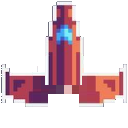
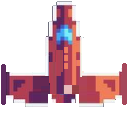
Adicionando animação e invasor

diff --git a/src/classes/Player.js b/src/classes/Player.js
@@ -1,12 +1,12 @@
-import { PATH_COMB_IMAGE, PATH_MOTOR_IMAGE, PATH_SPACESHIP_IMAGE } from "../utils/constants.js";
+import { INITIAL_FRAMES, PATH_COMB_IMAGE, PATH_MOTOR_IMAGE, PATH_SPACESHIP_IMAGE } from "../utils/constants.js";
 import ProjectTiles from "./ProjectTiles.js";
 
 class Player {
 
     constructor(canvasWidth, canvasHeight)
     {    
-        this.width = 128;
-        this.height = 128;
+        this.width = 69;
+        this.height = 69;
         this.velocity = 10;
         this.position = {
             x: (canvasWidth / 2) - (this.width / 2), 
@@ -16,6 +16,9 @@ class Player {
         this.image = this.getImage(PATH_SPACESHIP_IMAGE);
         this.motor = this.getImage(PATH_MOTOR_IMAGE);
         this.comb = this.getImage(PATH_COMB_IMAGE);
+
+        this.sx = 0;
+        this.framescount = INITIAL_FRAMES;
     }
 
 // // // RECUPERAR IMAGENS    
@@ -48,7 +51,7 @@ getImage(path){
         const p = new ProjectTiles({
             x: this.position.x + this.width / 2,
             y: this.position.y - 20
-        }, -11);
+        }, -13);
 
         projectiles.push(p);
     }
@@ -57,23 +60,46 @@ getImage(path){
     draw(ctx){
         // ctx.fillStyle = "red";
     //    ctx.fillRect(this.position.x , this.position.y, this.width, this.height);
-        
-    // COMBUSTÃO MOTOR
-    ctx.drawImage(this.comb, 
-        0,0,
-        128,
-        128,
-        this.position.x , 
-        this.position.y, 
-        this.width, 
-        this.height);     
-
-    // NAVE
+    
+    // // NAVE
     ctx.drawImage(this.image, this.position.x , this.position.y, this.width, this.height);     
     
-    // MOTOR
-    ctx.drawImage(this.motor, this.position.x , this.position.y, this.width, this.height);       
+
+    // COMBUSTÃO MOTOR
+    ctx.drawImage(this.comb, 
+        this.sx,
+        0,
+        27,
+        27,
+        this.position.x + ((this.width / 2) - (30 / 2)) , 
+        this.position.y + (this.height - 30), 
+        30, 
+        27);
+
+    
+    // // MOTOR
+    ctx.drawImage(this.motor, this.position.x , this.position.y, this.width, this.height);          
+    
+    this.update();
+}
+
+    update()
+    {
+        if(this.framescount == 0)
+        {
+            if(this.sx >= 60){
+            this.sx = 0;
+            }
+            else{
+                this.sx += 30;
+            }
+
+            this.framescount = INITIAL_FRAMES;
+        }
+
+        this.framescount -= 1;
     }
+
 }
 
 

diff --git a/src/classes/Invaders.js b/src/classes/Invaders.js
@@ -1,0 +1,65 @@
+import { PATH_INVADER_IMAGE } from "../utils/constants.js";
+import ProjectTiles from "./ProjectTiles.js";
+
+class Invaders {
+
+    constructor(position, velocity)
+    {   
+        this.velocity = velocity;
+        this.position = position;
+
+        this.width = 60;
+        this.height = 63;        
+
+        this.image = this.getImage(PATH_INVADER_IMAGE);
+    }
+
+// // // RECUPERAR IMAGENS    
+
+getImage(path){
+    const image = new Image();
+    image.src = path;
+    return image;
+}
+
+// // // AÇÕES \ MOVIMENTOS
+    moveLeft(){
+        this.position.x -= this.velocity;
+    }
+
+    moveRight(){
+        this.position.x += this.velocity;
+    }
+
+    moveUp(){
+        this.position.y -= this.velocity;
+    }
+
+    moveDown(){
+        this.position.y += this.velocity;
+    }
+
+
+    shoot(projectiles){
+        const p = new ProjectTiles({
+            x: this.position.x + this.width / 2,
+            y: this.position.y - 20
+        }, 11);
+
+        projectiles.push(p);
+    }
+
+
+    draw(ctx){
+        // ctx.fillStyle = "red";
+    //    ctx.fillRect(this.position.x , this.position.y, this.width, this.height);
+    
+    // // NAVE
+    ctx.drawImage(this.image, this.position.x , this.position.y, this.width, this.height);     
+    
+}
+
+}
+
+
+export default Invaders;

diff --git a/src/index.js b/src/index.js
@@ -4,8 +4,9 @@ Tippo: Shmups
 Autor: Joabe Nonato
 */
 
+import Invaders from "./classes/Invaders.js";
 import Player from "./classes/Player.js";
-import ProjectTiles from "./classes/ProjectTiles.js";
+// import ProjectTiles from "./classes/ProjectTiles.js";
 
 const canvas = document.querySelector("canvas");
 const ctx = canvas.getContext("2d");
@@ -25,6 +26,7 @@ const playerProjectiles = [];
 // player.position.y = canvas.height - player.height - 30;
 
 // const p = new ProjectTiles({x: 200, y: 400}, -1);
+const invader = new Invaders({x : (canvas.width / 2), y: 20 }, 10);
 
 //AÇÂO
 const keys ={
@@ -59,6 +61,8 @@ const clearProjectiles = () =>{
 const gameLoop = () =>{
     ctx.clearRect(0,0, canvas.width, canvas.height);
 
+    invader.draw(ctx);
+    
     // p.draw(ctx);
     // p.update();
     // console.log(player.position.y);

diff --git a/src/utils/constants.js b/src/utils/constants.js
@@ -1,5 +1,7 @@
 export const PATH_SPACESHIP_IMAGE = "assets/nav.png";
+export const PATH_INVADER_IMAGE = "assets/enim.png";
 export const PATH_MOTOR_IMAGE = "assets/motor.png";
 export const PATH_COMB_IMAGE = "assets/comb.png";
+export const INITIAL_FRAMES = 6;
 
 

diff --git a/src/docs/doc.md b/src/docs/doc.md
@@ -1,0 +1,10 @@
+# Aplicação
+- Titulo: space game
+- tipo: shmup
+- Auto: Joabe Nonato
+- Recursos: javascript, html, css
+- Descrição: Modelo de aprendizagem de estrutra básica de game em javascript
+
+# Rotina
+
+# Estrutura
